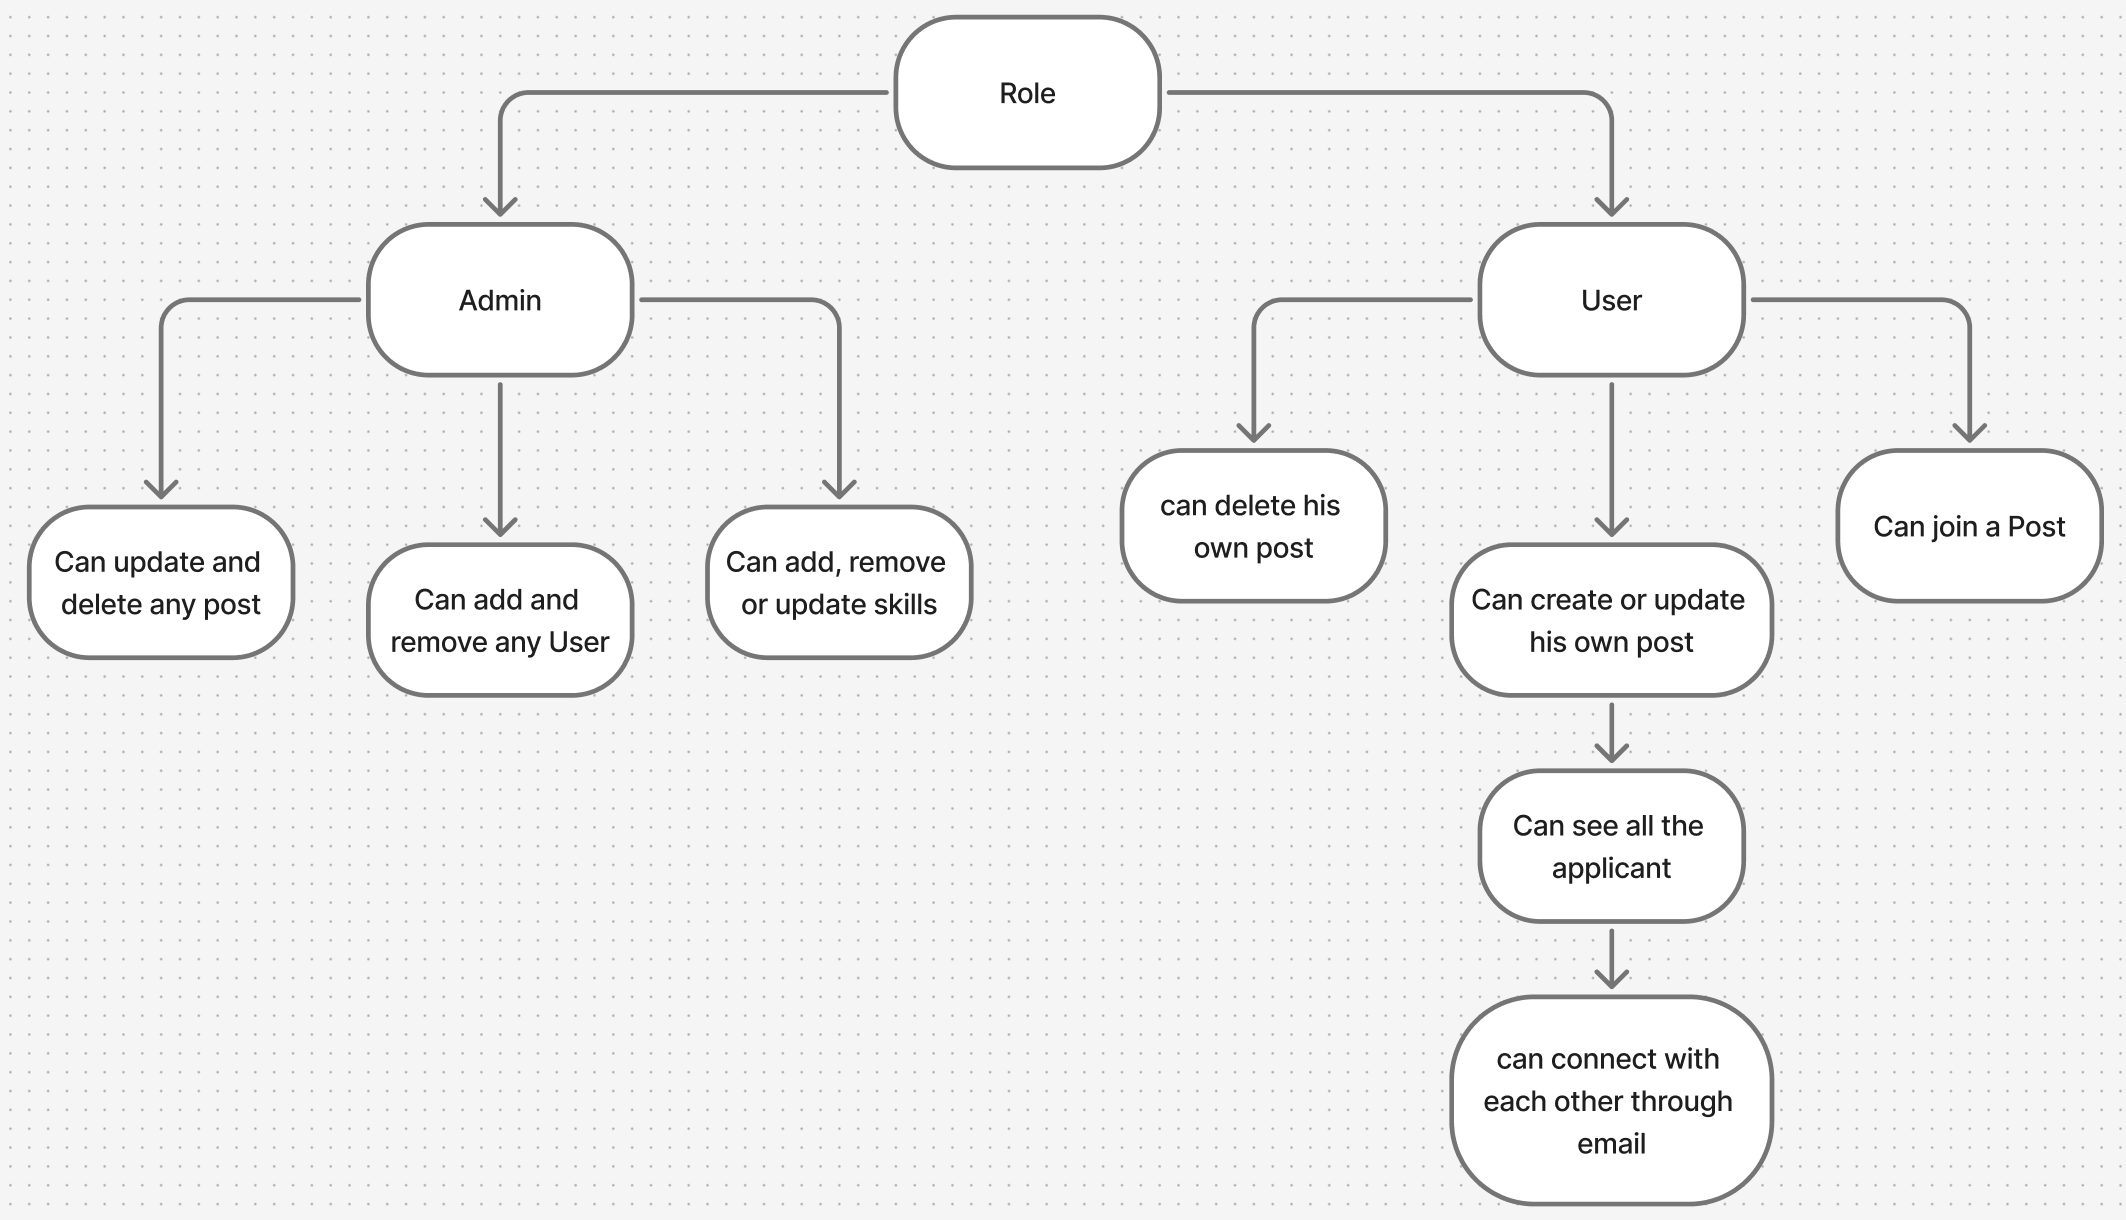
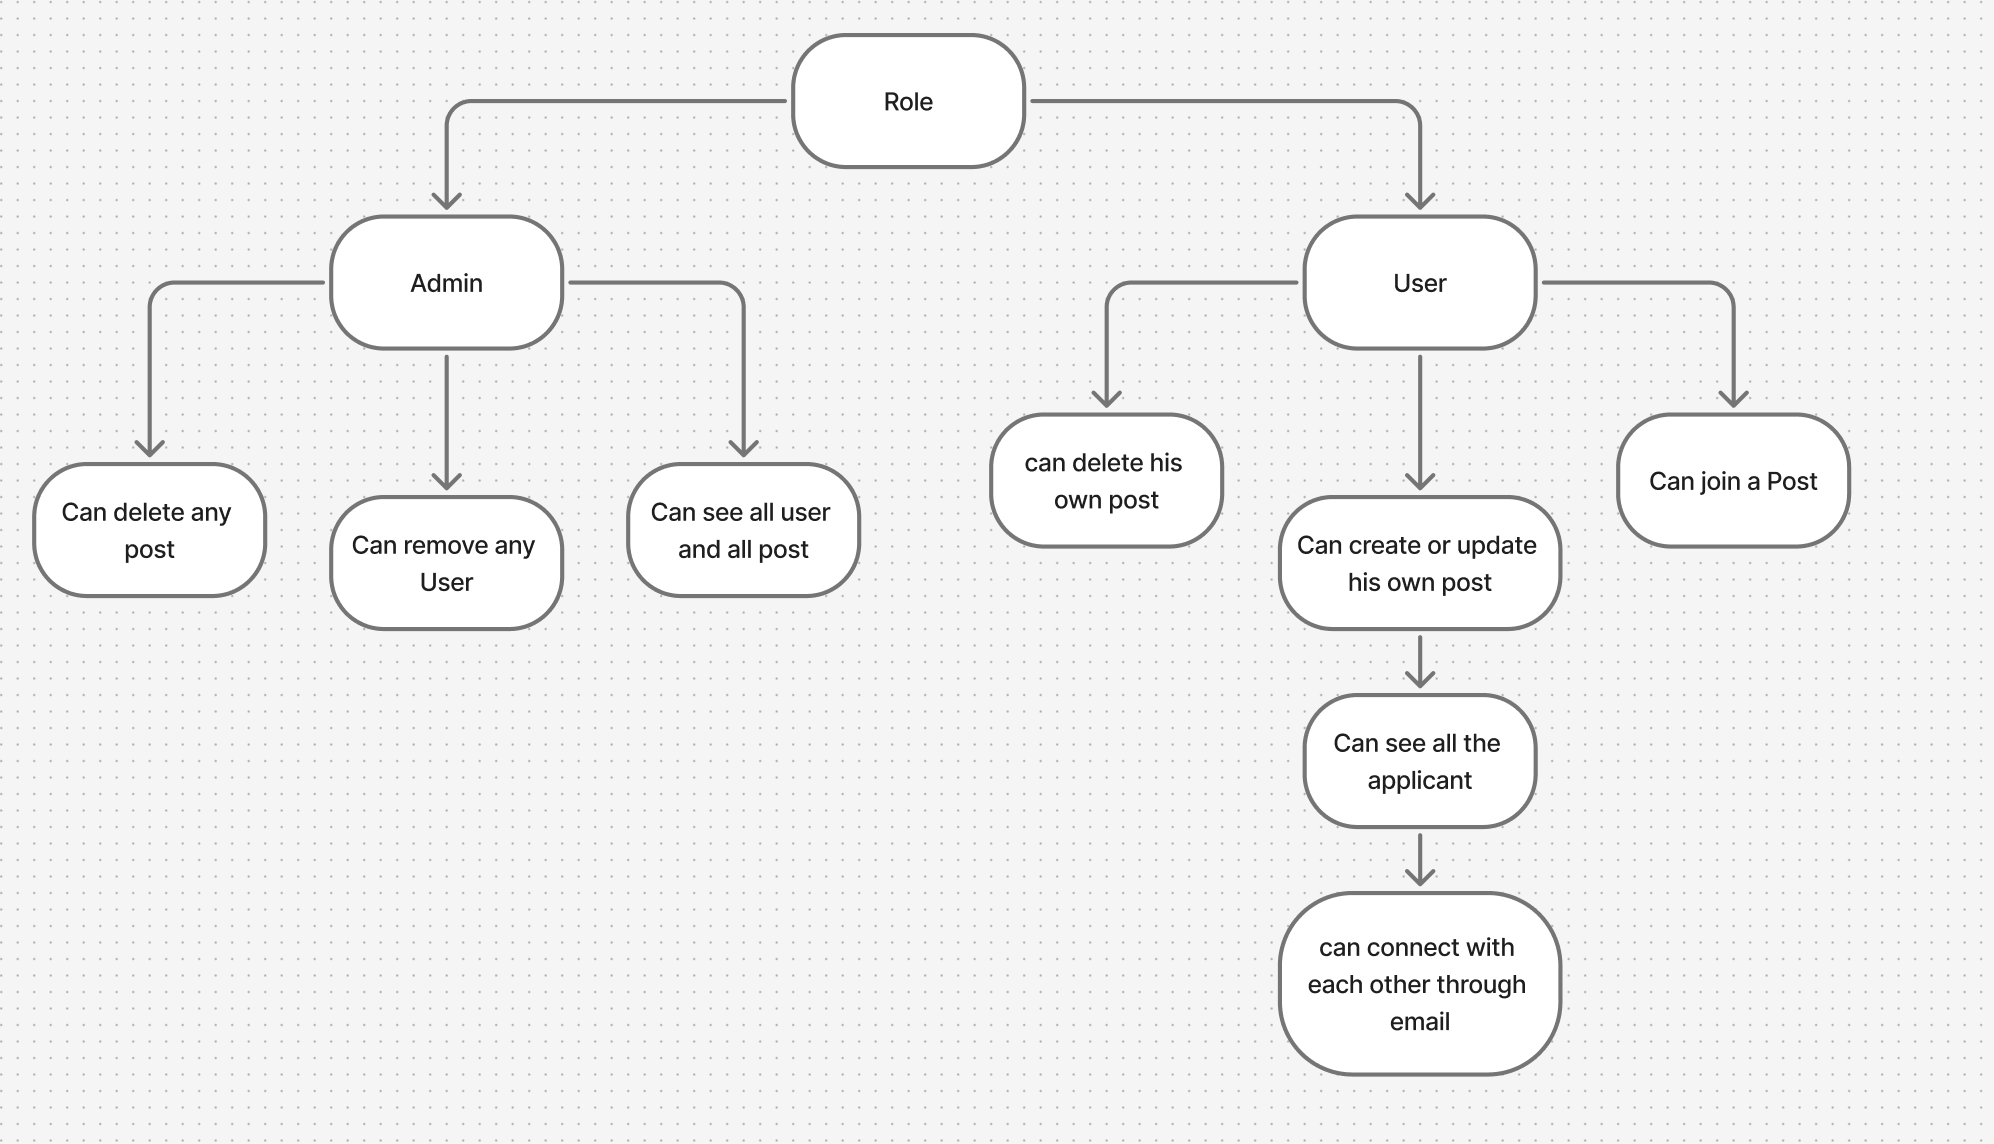
improved image

Changed region(s): [[0.0, 0.0, 0.995, 1.0], [0.6219, 0.7955, 0.653, 0.826]]

diff --git a/site/functional/index.html b/site/functional/index.html
@@ -128,9 +128,9 @@ If the credentials are invalid, an error message prompts them to re-enter their 
 <p>Authorization in <strong>Edulance</strong> is role-based, granting different permissions to <strong>Admins</strong> and <strong>Users</strong>.</p>
 <h4 id="admin-capabilities">Admin Capabilities</h4>
 <ul>
-<li>Can add or remove any user  </li>
-<li>Can add, remove, or update skills  </li>
-<li>Can update or delete any post  </li>
+<li>Can see all the users and posts  </li>
+<li>Can remove any user  </li>
+<li>Can remove any post  </li>
 </ul>
 <h4 id="user-capabilities">User Capabilities</h4>
 <ul>
@@ -150,8 +150,8 @@ If the credentials are invalid, an error message prompts them to re-enter their 
 <li><strong>Authentication and Authorization:</strong> JWT-based authentication with role-based access control (Admin and User roles).  </li>
 <li><strong>Post Creation and Management:</strong> Users can create, update, and delete posts for hackathons or group projects, specifying the number of required participants, description, required skills, and application deadline.  </li>
 <li><strong>Skill Tagging:</strong> Posts can include specific skills to attract suitable applicants.  </li>
-<li><strong>Application System:</strong> Authenticated users can apply to open posts before the application deadline.  </li>
-<li><strong>Admin Management:</strong> Admins can manage users, posts, and skills.</li>
+<li><strong>Application System:</strong> Authenticated users can apply to open posts before.  </li>
+<li><strong>Admin Management:</strong> Admins can manage users, posts.</li>
 <li><strong>Progressive Web App (PWA):</strong> The platform will be developed as a Progressive Web App to provide an app-like experience, offline access, and better performance on all devices</li>
 </ul>
 <hr />
@@ -169,10 +169,9 @@ If the credentials are invalid, an error message prompts them to re-enter their 
 <ol>
 <li><strong>User Authentication:</strong> Users should be able to register, log in, and authenticate using JWT tokens.  </li>
 <li><strong>Email Verification:</strong> Upon registration, users must verify their email before accessing the platform.  </li>
-<li><strong>Role-Based Access:</strong> Admins have elevated permissions to manage users, skills, and posts.  </li>
+<li><strong>Role-Based Access:</strong> Admins have elevated permissions to manage users, and posts.  </li>
 <li><strong>Post Creation:</strong> Authenticated users can create posts for hackathons or group projects.  </li>
-<li><strong>Application Submission:</strong> Authenticated users can apply to open posts before deadlines.  </li>
-<li><strong>Deadline Validation:</strong> The system should automatically prevent applications after the last date.</li>
+<li><strong>Application Submission:</strong> Authenticated users can apply to open posts.  </li>
 </ol>
 <hr />
 <h3 id="technical-requirements">Technical Requirements</h3>

diff --git a/site/test_planning/index.html b/site/test_planning/index.html
@@ -120,7 +120,7 @@
 <hr />
 <h2 id="objective-scope">Objective &amp; Scope</h2>
 <ul>
-<li>Ensure all core functionalities of the Edulance platform (authentication, user profiles, skills, Post, and search) work as intended.  </li>
+<li>Ensure all core functionalities of the Edulance platform (authentication, user profiles, skills, Post) work as intended.  </li>
 <li>Validate the platform’s API and frontend behavior.  </li>
 <li>Scope covers functional testing, basic UI testing, and role-based access validation.</li>
 </ul>
@@ -138,9 +138,7 @@
 <ul>
 <li>Authentication (login, logout, restricted pages)  </li>
 <li>User profiles (view/update)</li>
-<li>Skills &amp; categories (create/edit/delete by admin)  </li>
 <li>Post &amp; collaboration  </li>
-<li>Global search (Post)</li>
 <li>Access control rules  </li>
 <li>Error handling and validation messages  </li>
 </ul>

diff --git a/site/index.html b/site/index.html
@@ -235,5 +235,5 @@ As a result, it becomes difficult for them to participate in hackathons or group
 
 <!--
 MkDocs version : 1.6.1
-Build Date UTC : 2025-11-13 12:30:33.537439+00:00
+Build Date UTC : 2025-11-17 06:34:51.547522+00:00
 -->

diff --git a/docs/functional.md b/docs/functional.md
@@ -26,9 +26,9 @@ If the credentials are invalid, an error message prompts them to re-enter their 
 Authorization in **Edulance** is role-based, granting different permissions to **Admins** and **Users**.
 
 #### Admin Capabilities
-- Can add or remove any user  
-- Can add, remove, or update skills  
-- Can update or delete any post  
+- Can see all the users and posts  
+- Can remove any user  
+- Can remove any post  
 
 #### User Capabilities
 - Can create, update, or delete their own posts  
@@ -50,8 +50,8 @@ Authorization in **Edulance** is role-based, granting different permissions to *
 - **Authentication and Authorization:** JWT-based authentication with role-based access control (Admin and User roles).  
 - **Post Creation and Management:** Users can create, update, and delete posts for hackathons or group projects, specifying the number of required participants, description, required skills, and application deadline.  
 - **Skill Tagging:** Posts can include specific skills to attract suitable applicants.  
-- **Application System:** Authenticated users can apply to open posts before the application deadline.  
-- **Admin Management:** Admins can manage users, posts, and skills.
+- **Application System:** Authenticated users can apply to open posts before.  
+- **Admin Management:** Admins can manage users, posts.
 - **Progressive Web App (PWA):** The platform will be developed as a Progressive Web App to provide an app-like experience, offline access, and better performance on all devices
 
 ---
@@ -72,10 +72,9 @@ Authorization in **Edulance** is role-based, granting different permissions to *
 
 1. **User Authentication:** Users should be able to register, log in, and authenticate using JWT tokens.  
 2. **Email Verification:** Upon registration, users must verify their email before accessing the platform.  
-3. **Role-Based Access:** Admins have elevated permissions to manage users, skills, and posts.  
+3. **Role-Based Access:** Admins have elevated permissions to manage users, and posts.  
 4. **Post Creation:** Authenticated users can create posts for hackathons or group projects.  
-5. **Application Submission:** Authenticated users can apply to open posts before deadlines.  
-6. **Deadline Validation:** The system should automatically prevent applications after the last date.
+5. **Application Submission:** Authenticated users can apply to open posts.  
 
 ---
 

diff --git a/docs/test_planning.md b/docs/test_planning.md
@@ -3,7 +3,7 @@
 ---
 
 ## Objective & Scope
-- Ensure all core functionalities of the Edulance platform (authentication, user profiles, skills, Post, and search) work as intended.  
+- Ensure all core functionalities of the Edulance platform (authentication, user profiles, skills, Post) work as intended.  
 - Validate the platform’s API and frontend behavior.  
 - Scope covers functional testing, basic UI testing, and role-based access validation.
 
@@ -21,9 +21,7 @@
 ## Test Coverage Goals
 - Authentication (login, logout, restricted pages)  
 - User profiles (view/update)
-- Skills & categories (create/edit/delete by admin)  
 - Post & collaboration  
-- Global search (Post)
 - Access control rules  
 - Error handling and validation messages  
 
